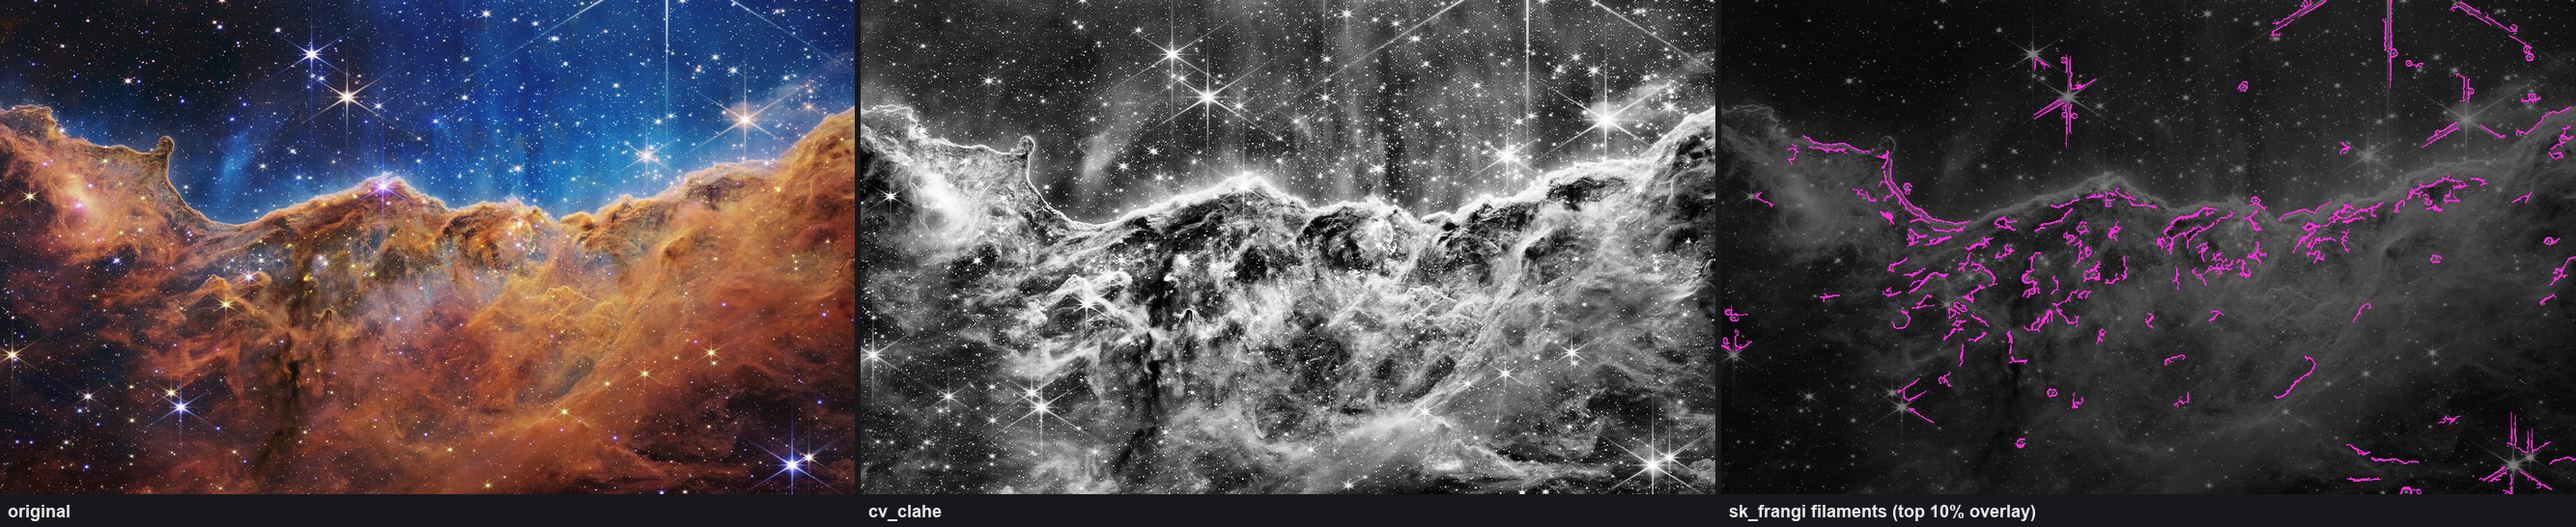
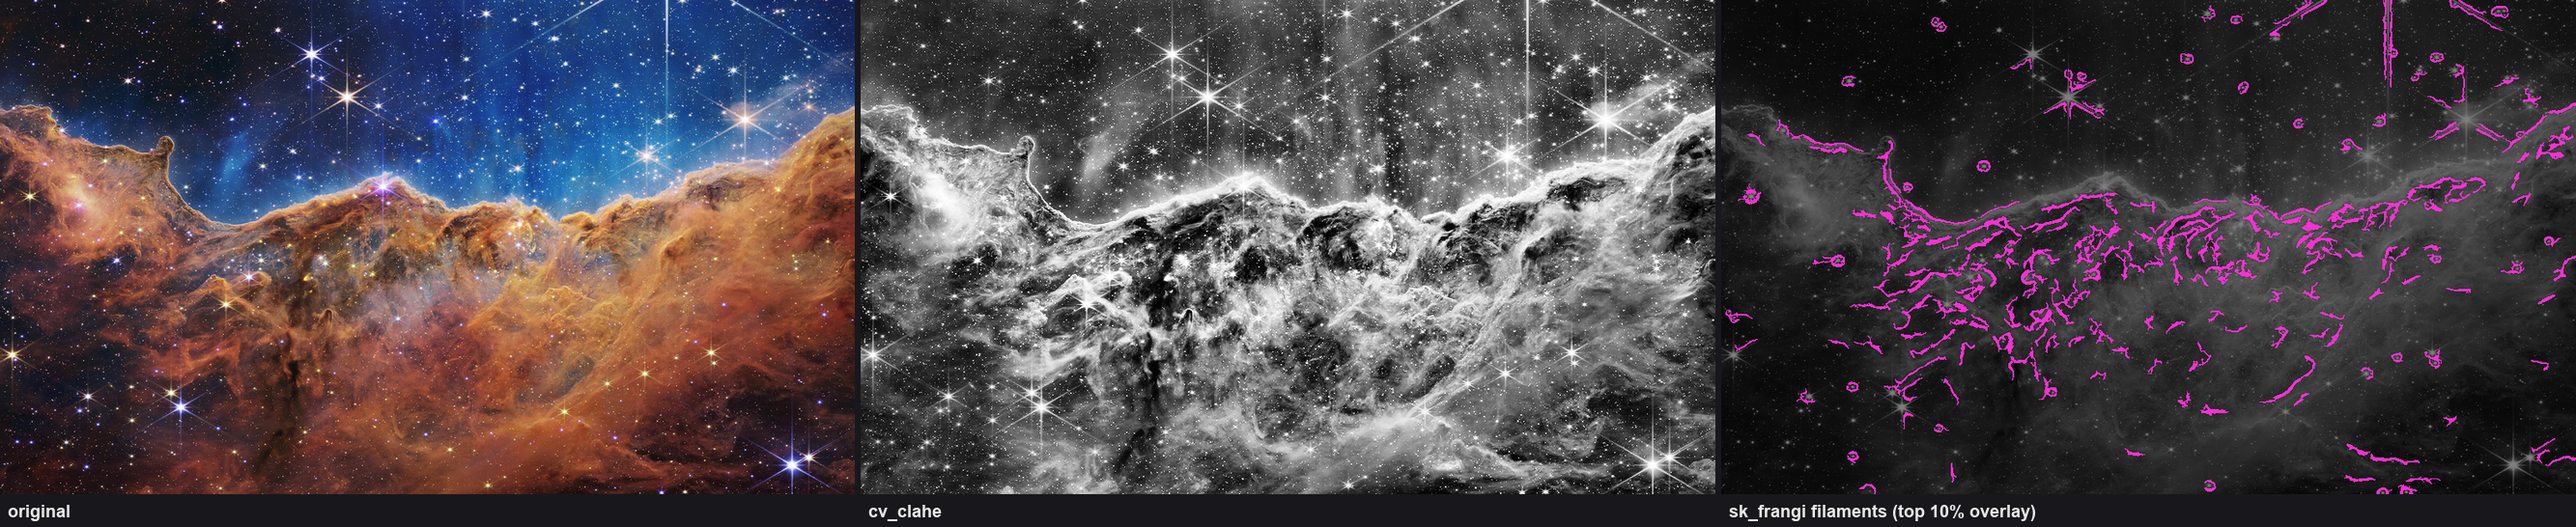
auto: gen_article_assets.py 編集前 (2026-08-30 17:01)

diff --git a/tools/gen_academic_gallery.py b/tools/gen_academic_gallery.py
@@ -813,7 +813,9 @@ def run_exhibit(subject: str, slug: str, spec: tuple, recipe: str, caption: str,
             # per-subject response density: nebula ridges / fern veins are
             # broader + fainter than neuron dendrites, so keep a larger slice
             top = {"space_carina": 10.0, "bot_fern": 8.0}.get(slug, 3.0)
-            panels, ops_used = rec_filaments(col, top_pct=top)
+            # star fields: 5x5 median also erases diffraction spikes of stars
+            med = 0.5 if slug == "space_carina" else 0.2
+            panels, ops_used = rec_filaments(col, top_pct=top, med_a=med)
         else:
             panels, ops_used = RECIPES[recipe](col)
     except Exception as e:

diff --git a/docs/articles/assets/_academic_gallery_snippet.md b/docs/articles/assets/_academic_gallery_snippet.md
@@ -1,7 +1,7 @@
 <!-- 記事貼り付け用スニペット: 学問分野横断ギャラリー (gen_academic_gallery.py) -->
 <!-- 画像はサムネ(720px JPG)。フル解像度は _thumb を外した .png -->
 
-## 植物学
+## 宇宙
 
-![bot_fern](https://raw.githubusercontent.com/furuse-kazufumi/fullseye/master/docs/articles/assets/academic_bot_fern_thumb.jpg)
-*シダ葉脈(AI 生成)を sk_frangi で葉脈抽出(op: `rgb1_to_gray`, `cv_clahe`, `cv_median`, `sk_frangi`, `sk_area_opening`, `overlay_mask`)。素材: **AI 生成(Google gemini-2.5-flash-image)による模擬データ**(実在の標本・スキャンではない)*
+![space_carina](https://raw.githubusercontent.com/furuse-kazufumi/fullseye/master/docs/articles/assets/academic_space_carina_thumb.jpg)
+*星雲のフィラメント構造を sk_frangi(血管強調フィルタ)で抽出(op: `rgb1_to_gray`, `cv_clahe`, `cv_median`, `sk_frangi`, `sk_area_opening`, `overlay_mask`)。素材: STScI (Webb) — Public domain (NASA)([出典](https://images.nasa.gov/details/carina_nebula))*

diff --git a/docs/articles/assets/ACADEMIC_ATTRIBUTION.md b/docs/articles/assets/ACADEMIC_ATTRIBUTION.md
@@ -6,6 +6,6 @@
 
 | 画像 | 分野 | 素材 | AI 生成 | 出典 / ライセンス | 使用 op |
 |---|---|---|---|---|---|
-| `academic_bot_fern.png` | 植物学 | AI-generated simulated data (gemini-2.5-flash-image) | **Yes** (gemini-2.5-flash-image) | AI 生成模擬データ(Google gemini-2.5-flash-image)— 実データではない | rgb1_to_gray, cv_clahe, cv_median, sk_frangi, sk_area_opening, overlay_mask |
+| `academic_space_carina.png` | 宇宙 | James Webb Space Telescope NIRCam Image of the “Cosmic Cliff | No | [STScI (Webb)](https://images.nasa.gov/details/carina_nebula) — Public domain (NASA) | rgb1_to_gray, cv_clahe, cv_median, sk_frangi, sk_area_opening, overlay_mask |
 
 生成日: 2026-08-30 / スクリプト: `tools/gen_academic_gallery.py`
